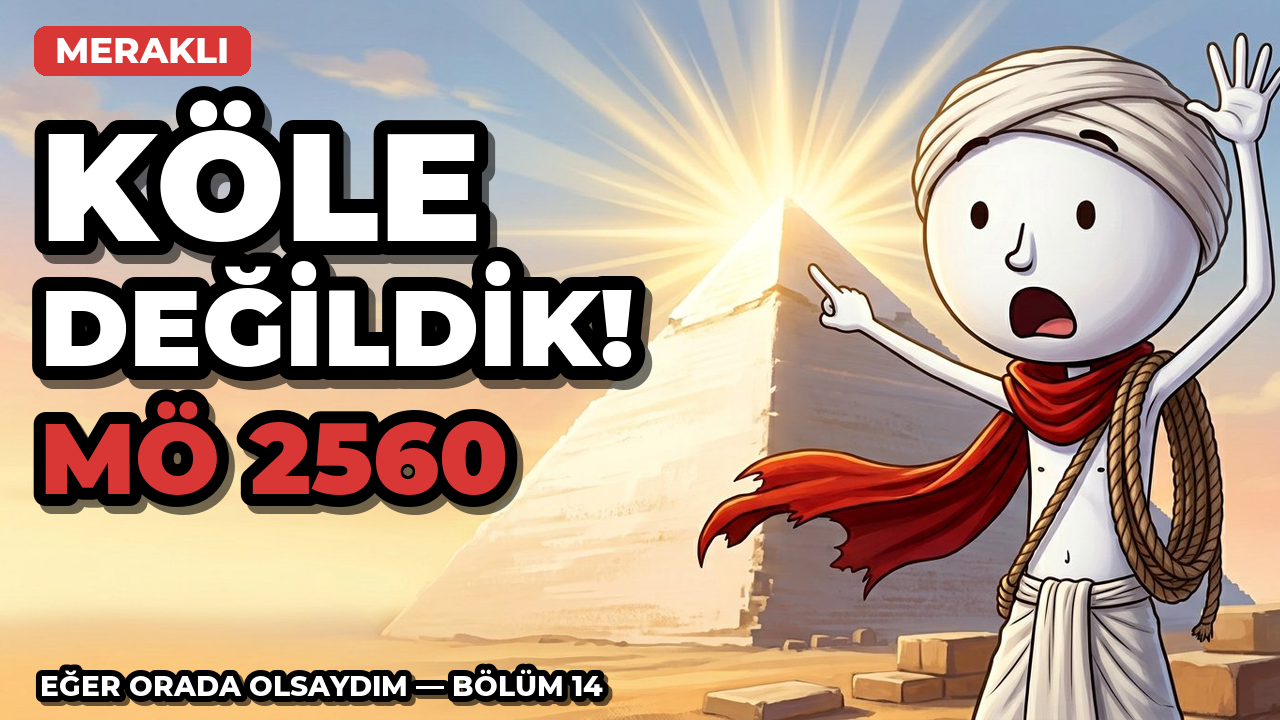
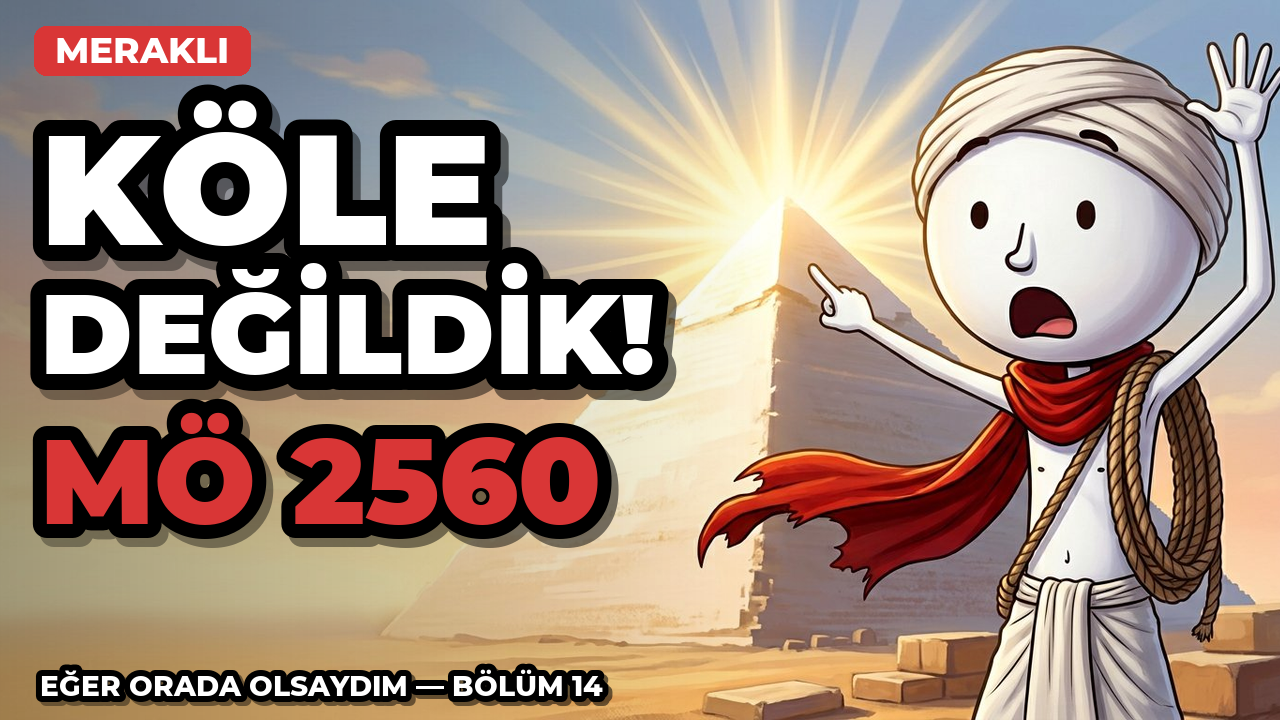
B014 MÜHÜR: YAYIN.md (20 damga + dürüst tarih notu) + SFX künyesi B014 + YOL_HARİTASI B14 ✅ + BOLUM-PLANI mühür + v4 kapak ince ayar (örnek analiz: kırmızı %15-24/siyah %19-39 → vurgu ~132pt + sol siyah perdah) + ONIZLEME 13 kapak

diff --git a/araclar/thumbnail_yap.py b/araclar/thumbnail_yap.py
@@ -85,6 +85,13 @@ def kapak_yap(no, ayar):
     katman = Image.new("RGBA", (W, H), (0, 0, 0, 0))
     d = ImageDraw.Draw(katman)
 
+    # 0) sol taraf yumuşak siyah perdah — örnek kapaklardaki ağır siyah
+    #    kütleler + metin kontrastı (soldan %60 genişliğe kademeli solar)
+    for x in range(W):
+        pay = 1.0 - x / (W * 0.60)
+        if pay > 0:
+            d.line([(x, 0), (x, H)], fill=(0, 0, 0, int(95 * pay)))
+
     # 1) MERAKLI rozeti (kırmızı) — sol üst, v4'te biraz küçük (başlık yer açar)
     y = 26
     f_rozet = ImageFont.truetype(F_XBOLD, 36)
@@ -97,20 +104,22 @@ def kapak_yap(no, ayar):
     # 2) BÜYÜK İLGİ ÇEKİCİ BAŞLIK — beyaz, dev, kalın siyah kontur (sol blok)
     x0 = 40
     for satir in ayar["buyuk"].split("\n"):
-        font, kutu = yazi_sigdir(d, satir, F_BLACK, 640, 152, 14)
-        d.text((x0 + 7, y + 9), satir, font=font, fill=SIYAH + (140,),
-               stroke_width=14, stroke_fill=SIYAH + (140,))
+        font, kutu = yazi_sigdir(d, satir, F_BLACK, 660, 156, 16)
+        d.text((x0 + 8, y + 10), satir, font=font, fill=SIYAH + (140,),
+               stroke_width=16, stroke_fill=SIYAH + (140,))
         d.text((x0, y), satir, font=font, fill=BEYAZ + (255,),
-               stroke_width=14, stroke_fill=SIYAH + (255,))
+               stroke_width=16, stroke_fill=SIYAH + (255,))
         y += (kutu[3] - kutu[1]) + 26
 
-    # 3) VURGU satırı — kanal kırmızısı
+    # 3) VURGU satırı — kanal kırmızısı, başlığa yakın punto (örnek
+    #    kapaklarda kırmızı alan %15-24: vurgu küçük aksan değil, ikinci
+    #    ana öğe)
     y += 4
-    font, kutu = yazi_sigdir(d, ayar["vurgu"], F_BLACK, 500, 112, 12)
-    d.text((x0 + 6, y + 8), ayar["vurgu"], font=font, fill=SIYAH + (140,),
-           stroke_width=12, stroke_fill=SIYAH + (140,))
+    font, kutu = yazi_sigdir(d, ayar["vurgu"], F_BLACK, 600, 132, 14)
+    d.text((x0 + 7, y + 9), ayar["vurgu"], font=font, fill=SIYAH + (140,),
+           stroke_width=14, stroke_fill=SIYAH + (140,))
     d.text((x0, y), ayar["vurgu"], font=font, fill=KIRMIZI + (255,),
-           stroke_width=12, stroke_fill=SIYAH + (255,))
+           stroke_width=14, stroke_fill=SIYAH + (255,))
 
     # 4) sol alt seri etiketi
     etiket = f"EĞER ORADA OLSAYDIM — BÖLÜM {int(no)}"

diff --git a/bolumler/014-giza-piramit/YAYIN.md b/bolumler/014-giza-piramit/YAYIN.md
@@ -1,0 +1,89 @@
+# BÖLÜM 014 — GİZA PİRAMİT İŞÇİSİ MÖ ~2560 · YAYIN DOSYASI (YALNIZ UZUN VİDEO)
+
+Rol: MÖ ~2560'ta Giza'da, "Khufu'nun Dostları" ekibinde halatçı Meraklı
+(kurgu karakter; işçi şehri Heit el-Ghurab, tayın sistemi, ekip grafitileri,
+Merer'in günlüğü, onur mezarlığı ve hizalama ölçümü tarihsel dayanaklıdır —
+başlıca kaynaklar AERA/Mark Lehner kazıları, Pierre Tallet'ın Wadi al-Jarf
+papirüsleri, 2014 Amsterdam sürtünme deneyi ve 2018 Hatnub rampası
+yayınıdır).
+Not: Konu 14 (Seri C — Antik Yaşam açılışı) bu bölümde işlenmiştir.
+
+---
+
+## VİDEO — UZUN VİDEO (ana bölüm)
+
+**Dosya:** `uzun/merakli-014-uzun-giza.mp4` · 9:16 · 1920×1080 · 20 sahne
+**Küçük resim:** `kapaklar/thumbnail/bolum-014.png` (1280×720, v4 standardı:
+"KÖLE DEĞİLDİK!" / MÖ 2560 — halatçı kıyafetli büyük Meraklı)
+
+### BAŞLIK (kopyala-yapıştır)
+
+```
+EĞER MÖ 2560'DA OLSAYDIM: GİZA — Piramit İşçisinin Bir Günü 🏗🍺 [TAM BÖLÜM]
+```
+
+### AÇIKLAMA (kopyala-yapıştır)
+
+```
+MÖ 2560, Giza platosu. Ben Meraklı: Büyük Piramit'in halatçısıyım.
+Bana "köle" demeyin — maaşım ekmek ve birayla ödendi, kırığımı sardılar,
+çama imzamı kazdım, ölüme ekmek kalıbıyla uğurlandım...
+
+Bu bölümde:
+⏱ 00:04 — Şafak: gölgesinde yaşadığım dağ
+⏱ 00:34 — Nil taşınca sezon açılır
+⏱ 01:00 — Kayıt: 'Khufu'nun Dostları' çetesi
+⏱ 01:26 — Heit el-Ghurab: kayıp işçi şehri
+⏱ 01:51 — Tayın: ekmek, bira ve bıyık köpüğü
+⏱ 02:16 — Köle miydik? Hayır!
+⏱ 02:44 — 2,5 tonluk komşum
+⏱ 03:08 — Islak kum hilesi
+⏱ 03:36 — Rampa sistemi
+⏱ 04:06 — Çekme günü: ritim
+⏱ 04:35 — Gece: kuzeyi yıldızlarla bulmak
+⏱ 05:05 — Merer'in defteri: Tura'dan gelen beyaz
+⏱ 05:34 — Hasta evi: kırılan atılmaz
+⏱ 06:04 — Et günü!
+⏱ 06:30 — Matematik: 2 dakikada 1 blok
+⏱ 06:54 — Grafiti: taşa kazınan imzalar
+⏱ 07:20 — Zirve: piramidyum sabahı
+⏱ 07:46 — Onur mezarlığı: ekmek ve bira testisi
+⏱ 08:19 — 4500 yıl sonra: kazı küreği masalı yıktı
+⏱ 08:48 — Veda: hangi görevi seçerdin?
+(Zaman damgaları yaklaşıktır; YouTube Studio'da ince ayar yapın.)
+
+📌 DÜRÜST TARİH NOTU: "Halatçı Meraklı" kurgu bir karakterdir. Gerçek
+olan: Giza'nın yanındaki Heit el-Ghurab işçi şehri (AERA/Lehner
+kazıları) binlerce işçiyi barındırdı; fırınları, bira imalathaneleri
+ve hastanesi vardı. Tayın ekmek + biraydı; "günde 4-5 litre bira"
+iddiası "çoğunlukta doğru ama miktar tartışmalı" diye nitelenir
+(Snopes). Ekip grafitileri ("Khufu'nun Dostları", "Menkaure'nin
+Sarhoşları") ve Merer'in günlüğü (Wadi al-Jarf papirüsleri, 2013,
+Pierre Tallet) gerçek belgelerdir. Herodot'un "100.000 köle" ifadesi
+abartıdır; modern tahmin 20-30 bin dönüşümlü işgüçüdür. İşçi
+mezarlığında iyileşmiş kırıklar ve amputasyonla yaşayanlar tespit
+edildi — "köle masalı" arkeolojik bulgularla çürütülmüştür. Islak
+kumun sürtünmeyi azalttığı 2014 Amsterdam deneyiyle gösterildi
+(~%50 kuvvet tasarrufu); Hatnub rampası bulgusu (2018) dik yokuş +
+merdiven + direk sistemini gösterir — piramide aynen uygulandığı
+kanıtlanamaz; rampa tipi hâlâ tartışılır. Piramidin kuzeye sapması
+~0,05°'dir (yön bulma için yıldızlar ve gölge çubukları kullanıldığı
+düşünülür). Çekme ritmi ve davul sesleri MODERN DAVUL/DEPREM
+ANALOJİSİDİR; MÖ 2560'dan özgün ses kaydı yoktur.
+
+Seslendirme: MERAKLI (voice-02) · Görseller: MERAKLI evreni
+Bir "Eğer Orada Olsaydım" hikâyesi.
+```
+
+### ETİKETLER
+
+```
+giza, keops piramidi, piramit nasıl yapıldı, antik mısır, mÖ 2560, piramit işçileri, köle değil, heit el-ghurab, merer papirüsleri, bira tarihi, arkeoloji, tarih belgeseli, eğer orada olsaydım, meraklı, antik yaşam
+```
+
+---
+
+## Yayın kontrol listesi
+- [ ] `bolum-014.png` kapağını yükle (v4: büyük başlık + kırmızı vurgu)
+- [ ] Zaman damgalarını Studio'da ince ayarla
+- [ ] Shorts YOK (kalıcı format kuralı)

diff --git a/sfx/SFX_KAYITLARI.md b/sfx/SFX_KAYITLARI.md
@@ -276,3 +276,27 @@ künyesini ve genel arşiv envanterini tutar.
 - İnşaat: Owlish `scrape1/2` (CC0); metal: OpenHV `klink` (CC0)
 - Gerilim vuruşu: 0ad `Taiko_1/2` — **modern davul analojisi**
 - Müzik: 0ad `The_Hellespont.ogg` (CC-BY-SA)
+
+---
+
+## BÖLÜM 014 — GİZA PİRAMİT İŞÇİSİ (uzun video)
+
+- Çöl rüzgarı/şafak: 0ad `wind_11`, `day_temperate_11` (CC-BY-SA)
+- Nil/kanal/mavnalar: 0ad `water/wave_21` (CC-BY-SA)
+- Fırın/ocak: PagDev `fire_loop` (CC0)
+- Bira/yudum: Owlish `drink-sip-and-swallow` (CC0)
+- Kâtip/kayıt: Owlish `pencil-scratch-1`, `pageturn1`, `tap` (CC0)
+- Metal/taş çakması: OpenHV `klink` (CC0)
+- Taş kazıma/sürtünme: Owlish `scrape1/2/3` (CC0)
+- Kalabalık/şantiye: Owlish `clamour1-7` (CC0) — temsili
+- Adım/çekme: Owlish `hard-footstep2/3` (CC0)
+- Çekme ritmi/davul: Owlish `djembe1/2/3` (CC0) — **MODERN DAVUL
+  ANALOJİSİ** (MÖ 2560'dan özgün kayıt yoktur; beyan)
+- Islak kum/su: Freesound `water-trickling` (kaydinhamby) — temsili
+- Gece ortamı: Owlish `night-crickets` (CC0)
+- Yıldız/hizalama büyüsü: JaggedStone `magical_1` (CC0) — temsili
+- Nefes/heyecan/kahkaha: Owlish `breath-male`, `gasp1`, `laugh1`,
+  `solo-clap` (CC0)
+- Sargı/bezin hışırtısı: Owlish `blanket-movement-1` (CC0)
+- Gerilim vuruşu: 0ad `Taiko_2` — **modern davul analojisi**
+- Müzik: 0ad `The_Hellespont.ogg` (CC-BY-SA)

diff --git a/docs/KAPAK_SISTEMI.md b/docs/KAPAK_SISTEMI.md
@@ -76,9 +76,14 @@ python3 araclar/thumbnail_yap.py        # sahnesi olan tüm bölümler
 
 ## v4 — YÜRÜRLÜKTEKİ KAPAK STANDARDI (2026-10-18, kullanıcı talimatı)
 
-Örnek referans: `docs/kapak-ornek/youtube-ornek-1.jpg` (kullanıcı yüklemesi;
-piksel analizi: kırmızı vurgu #C03030 ≈ kanal kırmızısı, kalın koyu
-kontur kütleleri, yüksek kontrast/parlaklık).
+Örnek referans: `docs/kapak-ornek/youtube-ornek-1.jpg` (kullanıcı yüklemesi)
++ `kapak-1..6.jpg` (ekran görüntüsünden ayıklanan 6 örnek kapak).
+Piksel analizi bulguları (6 kapakta tutarlı):
+- kırmızı %15-24 (ikinci ana öğe, aksan değil) · beyaz %15-29 ·
+  siyah %19-39 (ağır kontur/koyu kütle) · sarı ≈ %0
+- konturlu beyaz + kırmızı metin öğeleri karenin büyük bölümüne yayılıyor
+Buna göre: vurgu satırı ~132 puntoa büyütüldü, sol %60'a yumuşak siyah
+perdah eklendi, başlık konturu 16 px.
 
 Kurallar (yalnız uzun/ana videolara; Shorts'a kapak YOK — v3 sürer):
 1. **SAHNE GÖRSELİ** (AI, metinsiz, `sahne/bolum-XXX.jpg`): Meraklı

diff --git a/docs/YOL_HARITASI.md b/docs/YOL_HARITASI.md
@@ -37,7 +37,7 @@ Durum: 🟥 üretimde · 🟧 sıradaki · ⬜ planlandı
 | Bölüm | Konu | Yıl/Mekân | Kanca | Durum |
 |---|---|---|---|---|
 | 13 | 13 | 80 MS, Roma | Gladyatör: ilk kez arenaya çıkıyorum | ✅ |
-| 14 | 14 | ~MÖ 2560, Giza | Piramit işçisinin bir günü (ücret, bira, rampa) | ⬜ |
+| 14 | 14 | ~MÖ 2560, Giza | Piramit işçisinin bir günü (ücret, bira, rampa) | ✅ |
 | 15 | 24 | MÖ 776, Olimpia | İlk Olimpiyat koşucusu (çıplak, zeytin yağı) | ⬜ |
 | 16 | 35 | MÖ 399, Atina | Kartaca kuşatmasında sivil (MÖ 149-146) — veya Sokrates duruşması izleyicisi (Konu 34) | ⬜ |
 | 17 | 36 | MS 2. yy, limes | Roma lejyoneri sınır karakolunda sıradan gün | ⬜ |

diff --git a/bolumler/014-giza-piramit/BOLUM-PLANI.md b/bolumler/014-giza-piramit/BOLUM-PLANI.md
@@ -1,5 +1,9 @@
 # BÖLÜM 014 PLANI — GİZA PİRAMİT İŞÇİSİ MÖ ~2560 (halatçı Meraklı)
 
+> 🔒 **MÜHÜR (2026-10-18):** Tamamlandı — `uzun/merakli-014-uzun-giza.mp4`
+> 9:15.7 · x1.120 · −14.2 LUFS · TP −1.0 · 81,5 MB · 80 efekt ·
+> kapak `bolum-014.png` (v4: "KÖLE DEĞİLDİK!" / MÖ 2560). YAYIN.md hazır.
+
 **Format: YALNIZ UZUN VİDEO (kalıcı kural).** Klasör: `bolumler/014-giza-piramit/`
 Çıktı: `uzun/merakli-014-uzun-giza.mp4` · 20 sahne · 5-10 dk · 16:9 ·
 voice-02 · altyazı YOK · giriş kartı + tarih bantları + kapanış + abone.
